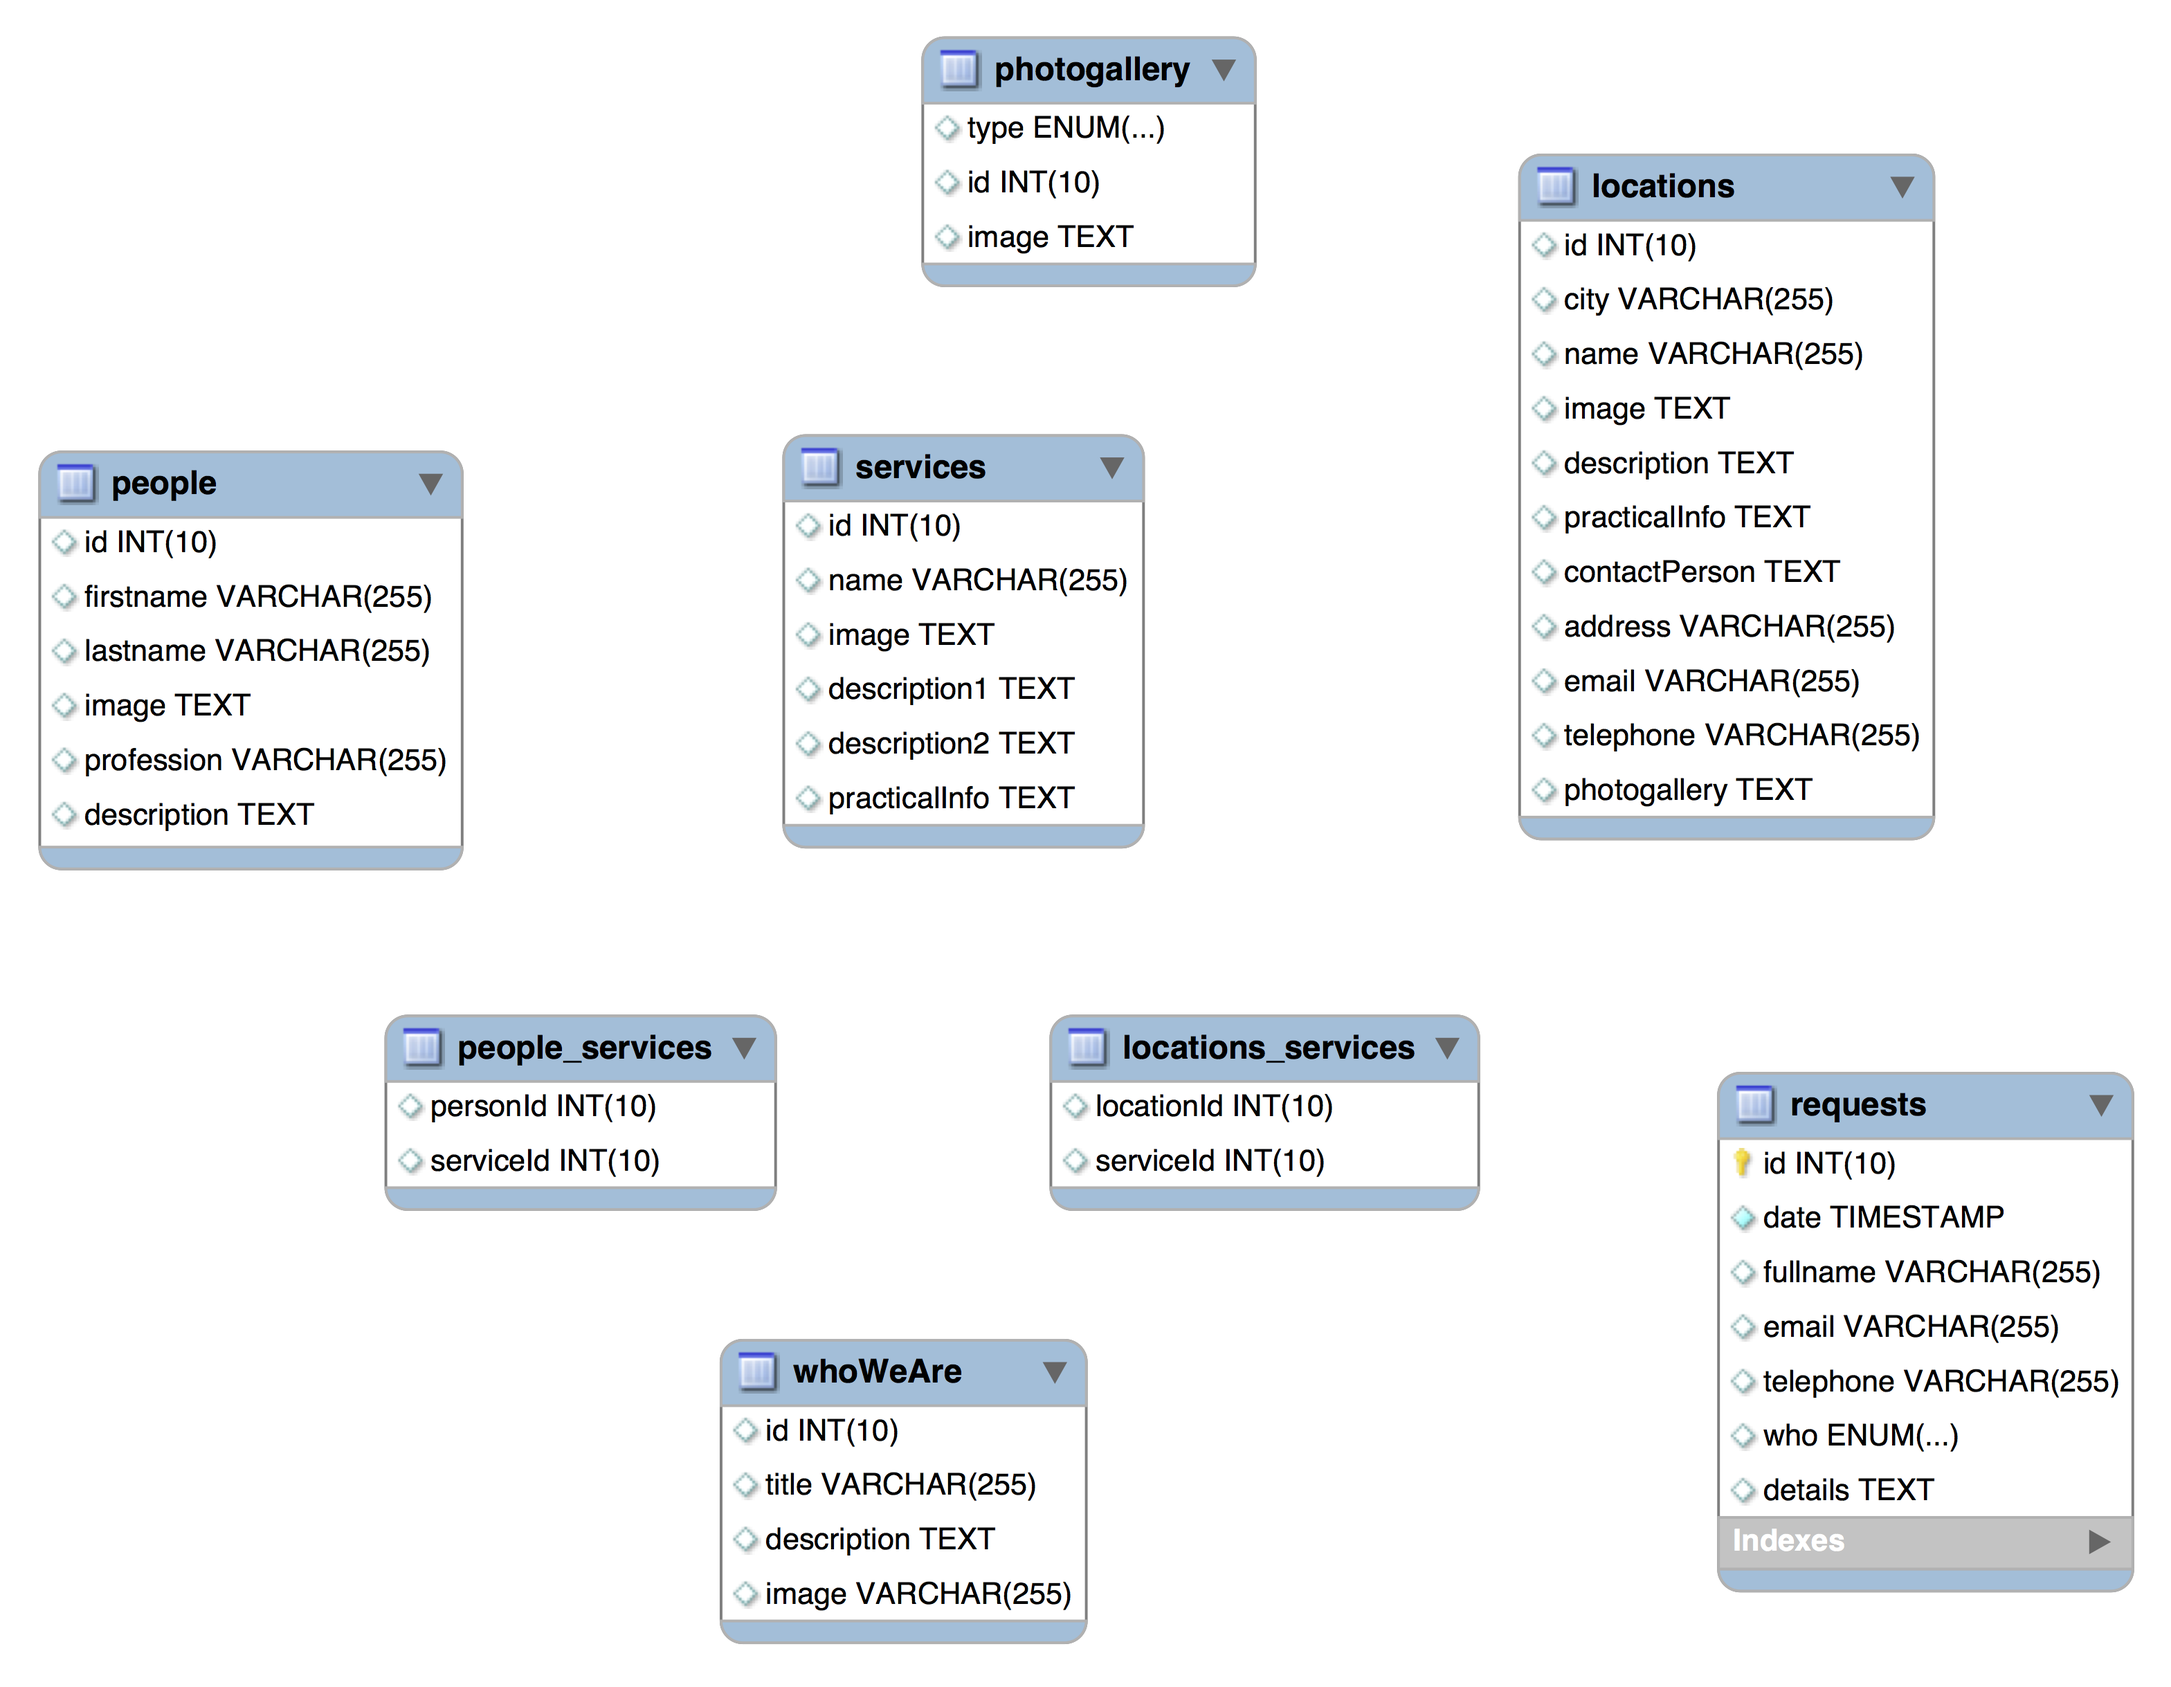
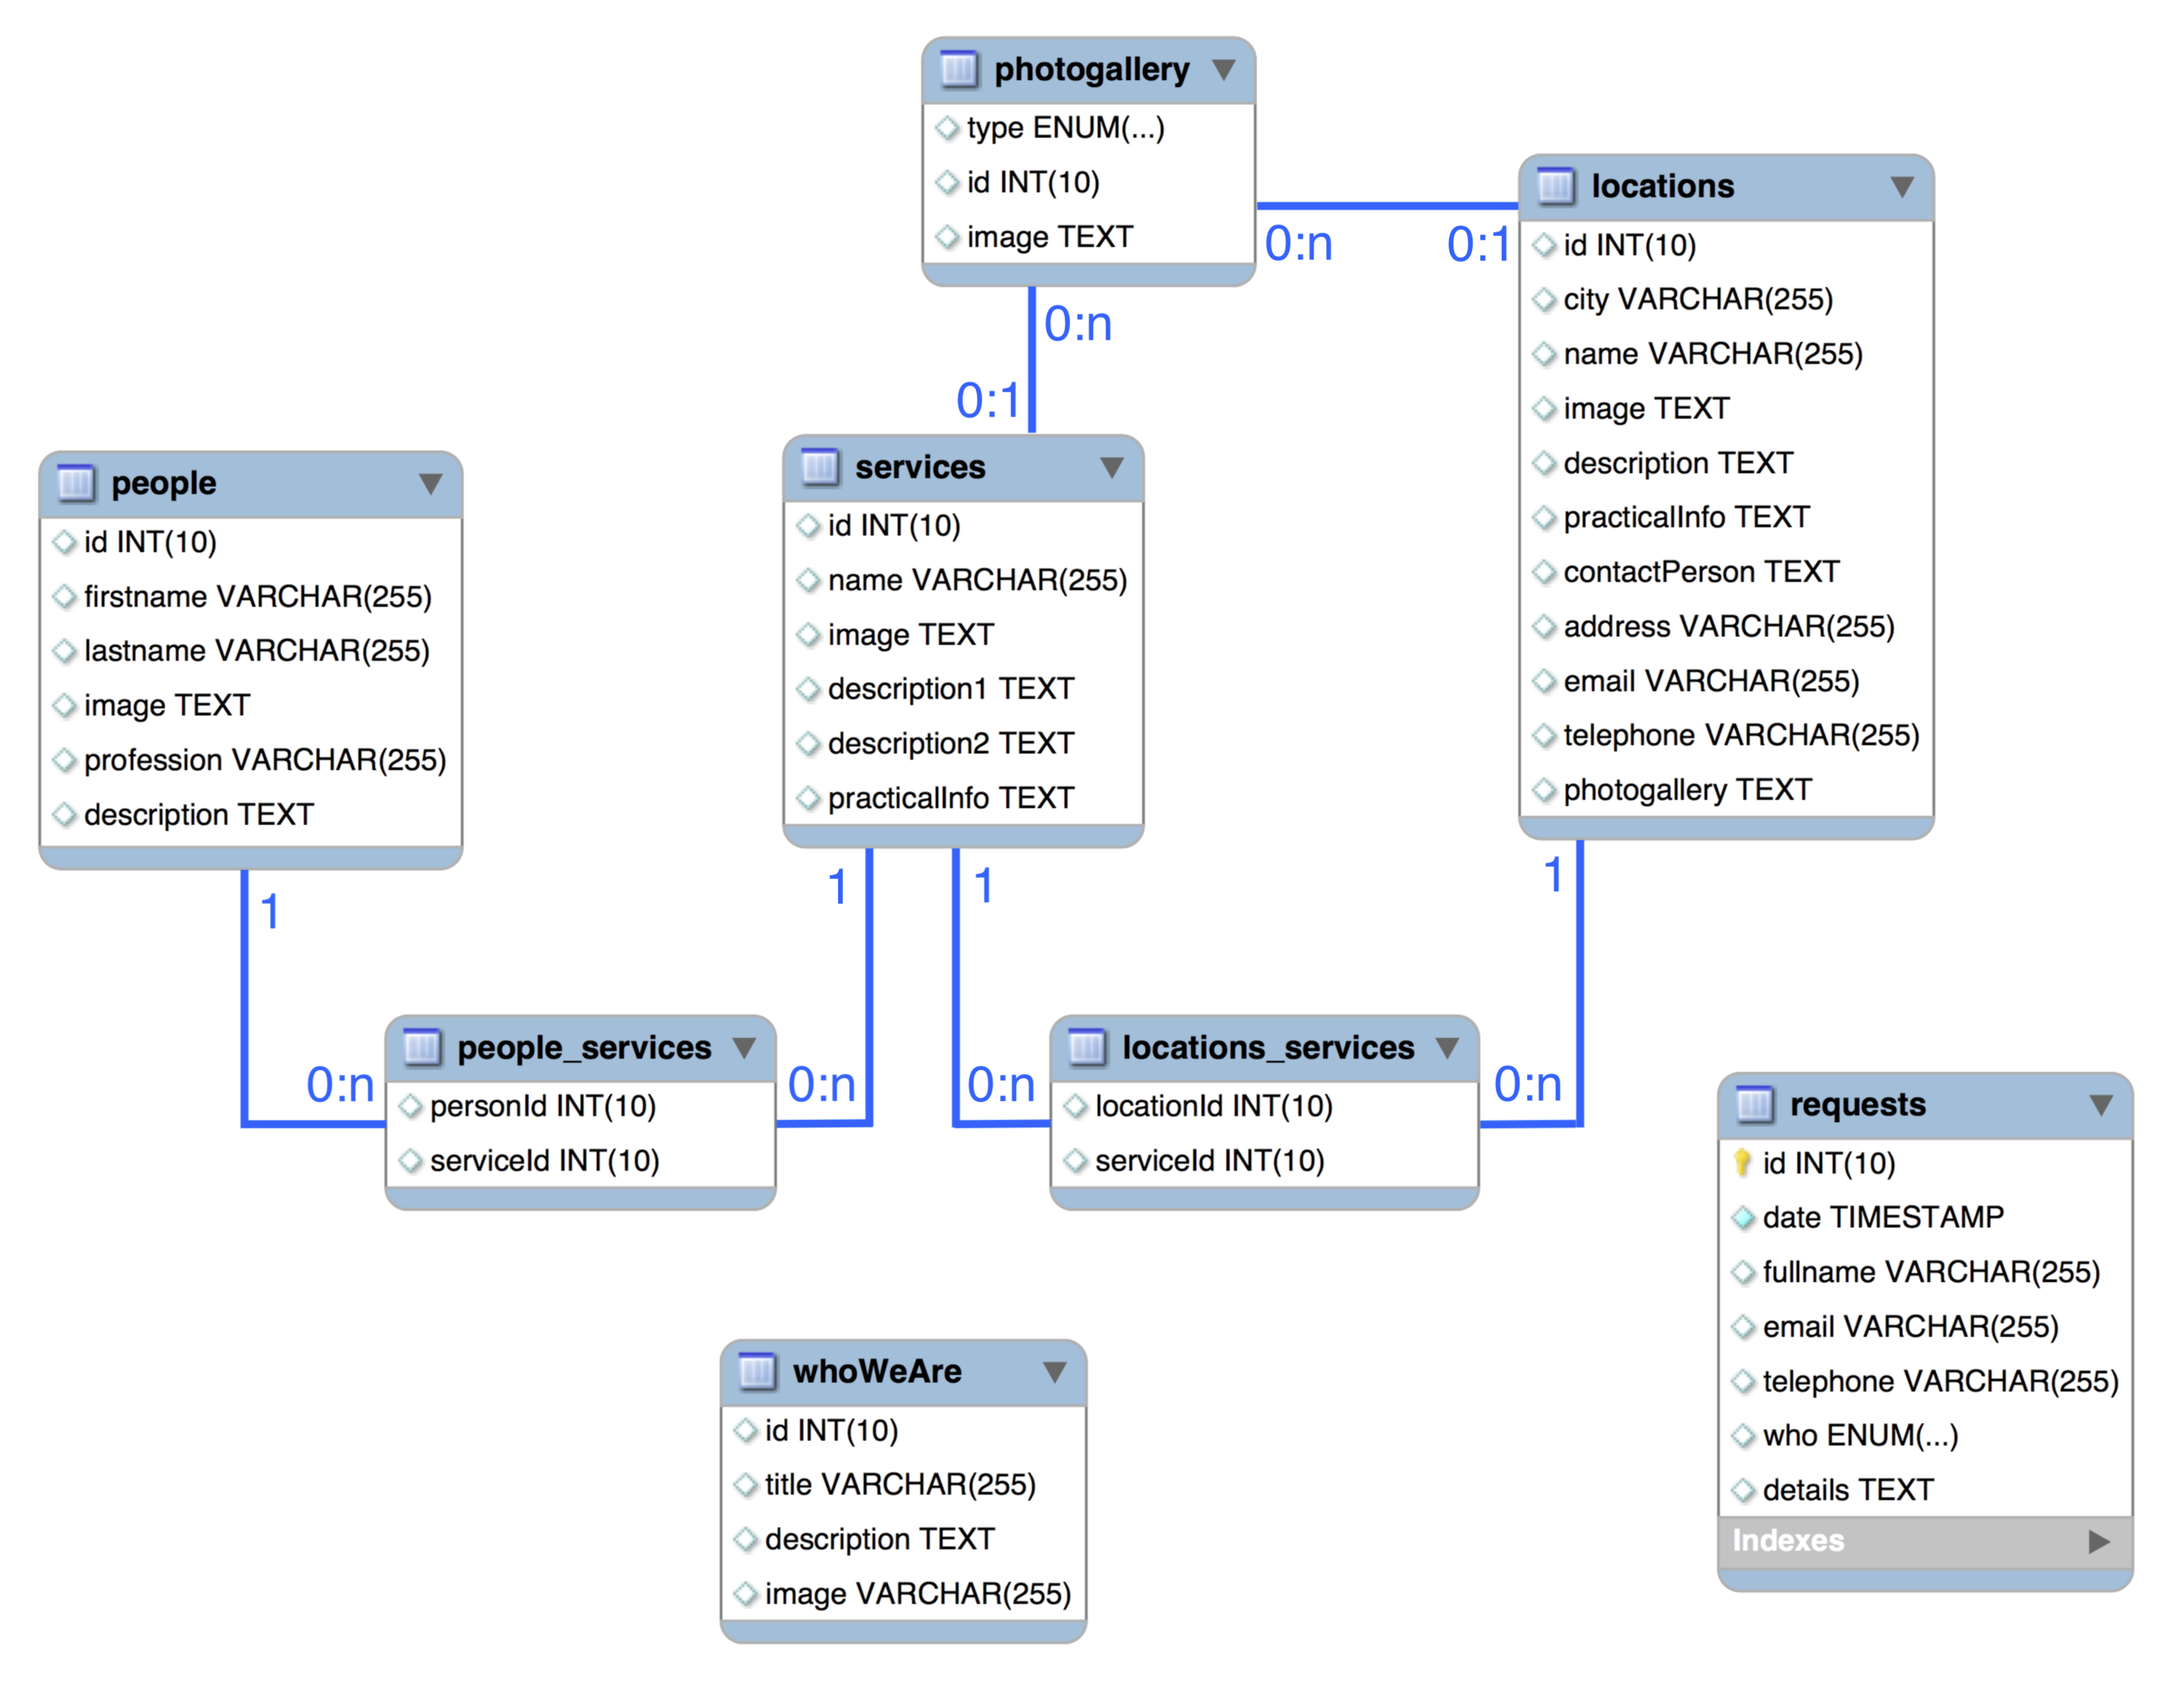
README updated and db image too

diff --git a/README.md b/README.md
@@ -1,17 +1,43 @@
 # README
 
-## Web application
-- Heroku URL:  https://polimi-hyp-2018-team-10472465.herokuapp.com
-- Bitbucket repo URL:  https://bitbucket.org/polimihyp2018team10472465/polimi-hyp-2018-project/src/master/
+## General info on team and web application
 
-## Team
+- **Heroku** URL:  https://polimi-hyp-2018-team-10472465.herokuapp.com
+- **Bitbucket** repo URL:  https://bitbucket.org/polimihyp2018team10472465/polimi-hyp-2018-project/src/master/
 - Team administrator:   NICOLA, CASTALDO,   10472465,   polimi-hyp-2018-10472465
 - Team member n.2   :   ROBERT, AMAHIRWE,   10453754,   polimi-hyp-2018-10453754
 
-## Database structure //TODO
+We worked mainly together, since we did not have any experience with HTML, CSS, JS and we wanted to learn as much as possible. 
+
+
+## Front-end
+
+The client-side languages we used are:
+
+- HTML5
+- CSS
+- JavaScript
+
+We took advantage of some external tools:
+
+- CSS - [Bootstrap](https://getbootstrap.com/)
+- CSS - [Animate](https://daneden.github.io/animate.css/)
+- CSS - [Font Awesome](https://fontawesome.com/)
+- JS - [JQuery](https://jquery.com/)
+- JS - [Bootstrap](https://getbootstrap.com/)
+
+## Back-end
+
+### Server
+In the [index.js](index.js) file there is the **database** initialization, the creation of the **REST endpoints** and the **server** starting procedure. The data files are statically saved in JSON format in the [other/json/](other/json/) folder and, at the start of the server, they are loaded into the database in case the relative tables are not present. Then the server creates the REST endpoints in order to retrieve the data by directly querying the database.
+
+### Pages
+The pages dynamically load the content they show by performing **AJAX** calls to the REST endpoints. In fact, for each of these pages (at folder [public/pages/](public/pages/)) there is the corresponding JS file (at folder [public/assets/js/](public/assets/js/))
+
+### Database structure
 ![alt text](/other/db.png)
 
-## Description of the REST API
+### Description of the REST API
 
 ###### - [/rest/whoWeAre](https://polimi-hyp-2018-team-10472465.herokuapp.com/rest/whoWeAre)
 - Returns: who we are 
@@ -96,7 +122,7 @@
 
 ###### - [/rest/requests](https://polimi-hyp-2018-team-10472465.herokuapp.com/rest/requests)
 - Returns: all the requests sent with the contact-us form
-- Attention! This REST endpoint is only for **TESTING** purpose and for the professor to verify its functionality. This endpoint should not be visible from the outside, because it may contain sensitive informations
+- Attention! This REST endpoint is only for **TESTING** purpose and for the professor to verify its functionality.
 
 ###### - /rest/requests - POST
 - Accepts: a JSON file containing the information filled in the form of the Contact Us page
